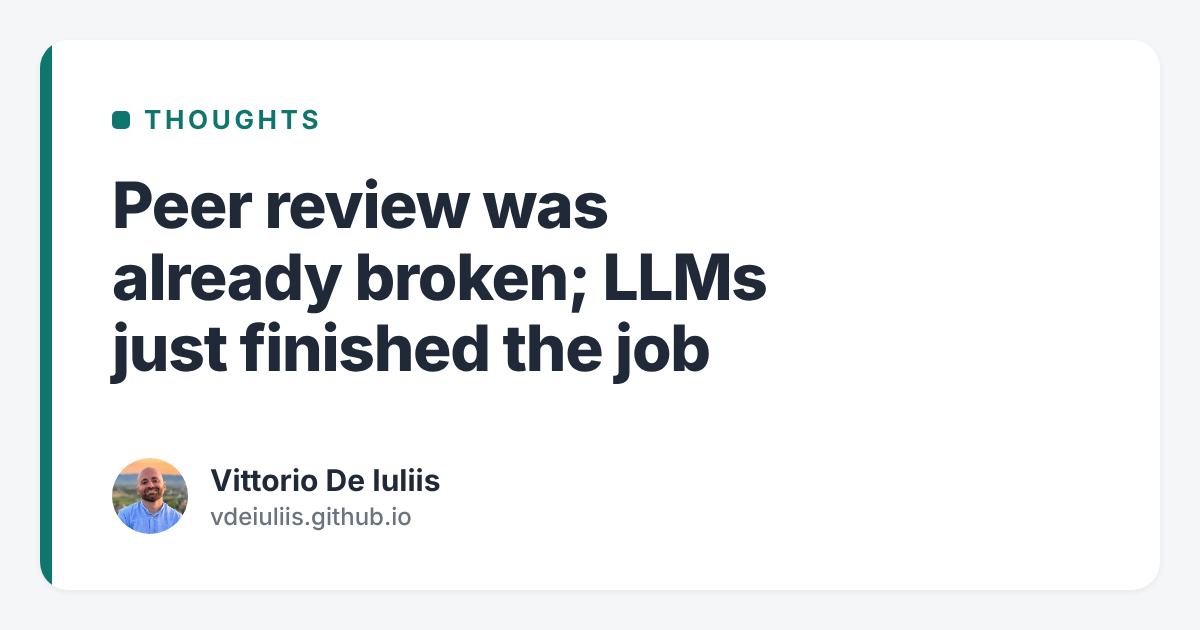
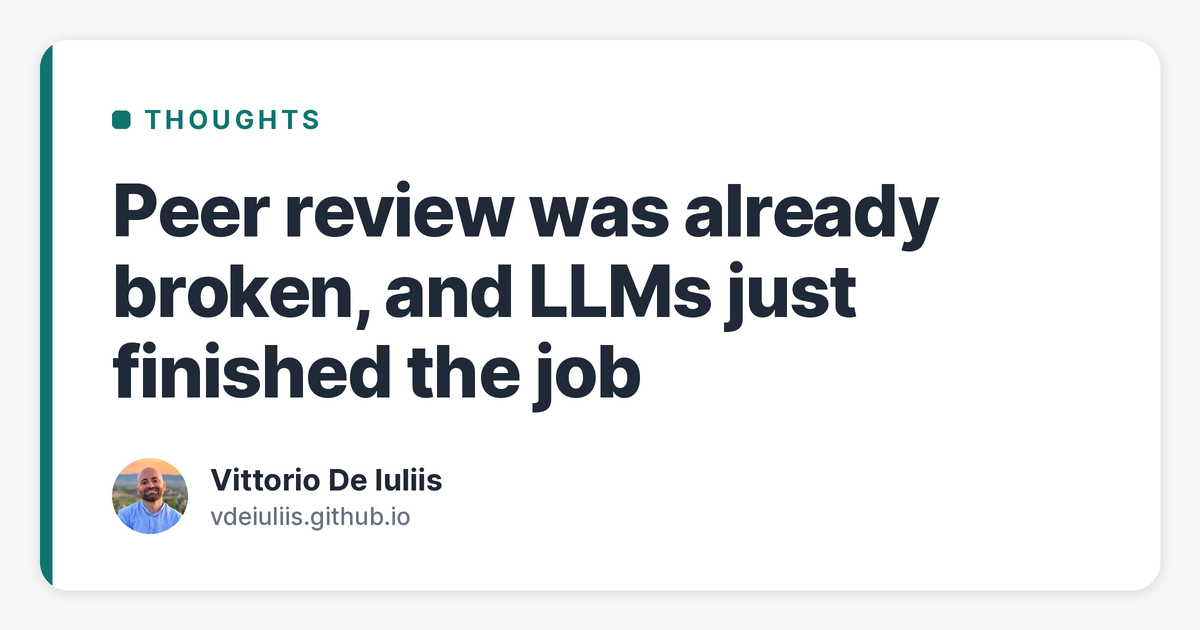
Thoughts: new title punctuation

diff --git a/_sass/_custom-modern.scss b/_sass/_custom-modern.scss
@@ -371,6 +371,6 @@ table.conf-table th:nth-child(2), table.conf-table td:nth-child(2) { width: 1%; 
 .thoughts-more { font-size: .9em; font-weight: 600; }
 
 /* Thoughts: comments (giscus) */
-.thoughts-comments { margin-top: 2.4em; padding-top: 1.4em; border-top: 1px solid var(--c-line); }
+.thoughts-comments { clear: both; margin-top: 2.4em; padding-top: 1.4em; border-top: 1px solid var(--c-line); }
 .thoughts-comments__title { margin-top: 0 !important; }
 .thoughts-comments__note { font-size: .85em; color: var(--c-muted); }

diff --git a/_posts/2026-10-25-thoughts-peer-review-llms.md b/_posts/2026-10-25-thoughts-peer-review-llms.md
@@ -1,4 +1,4 @@
 ---
-title: "New post in **Thoughts**: [*Peer review was already broken; LLMs just finished the job*](/thoughts/peer-review-llms-finished-the-job/)."
+title: "New post in **Thoughts**: [*Peer review was already broken, and LLMs just finished the job*](/thoughts/peer-review-llms-finished-the-job/)."
 link: "/thoughts/peer-review-llms-finished-the-job/"
 ---

diff --git a/_thoughts/2026-10-25-peer-review-llms-finished-the-job.md b/_thoughts/2026-10-25-peer-review-llms-finished-the-job.md
@@ -1,5 +1,5 @@
 ---
-title: "Peer review was already broken; LLMs just finished the job"
+title: "Peer review was already broken, and LLMs just finished the job"
 date: 2026-10-25
 ---
 
